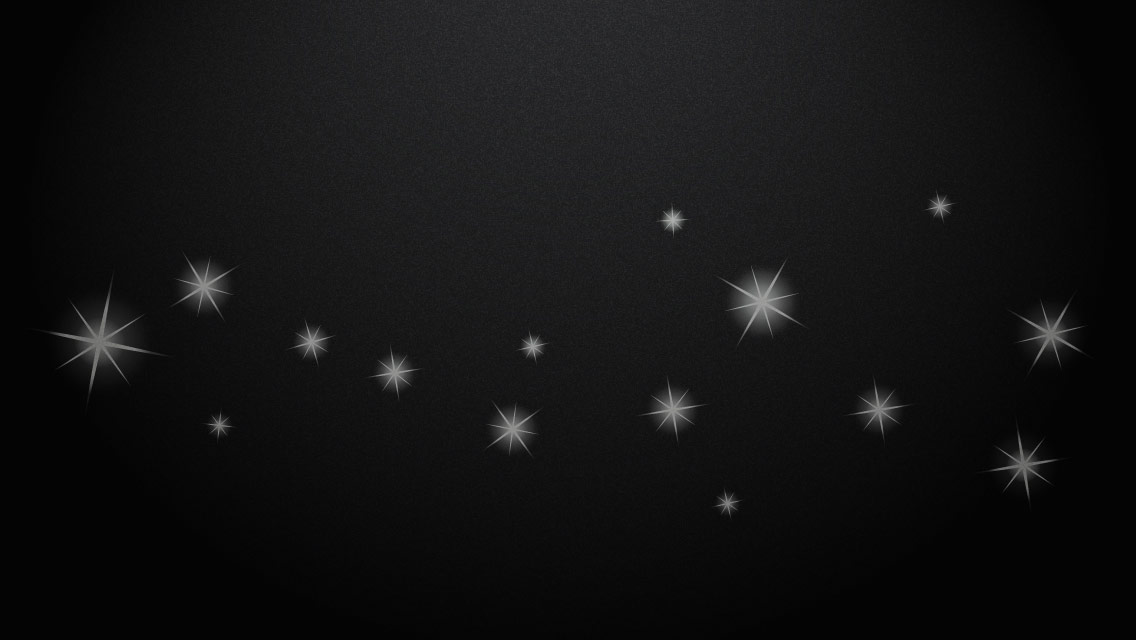
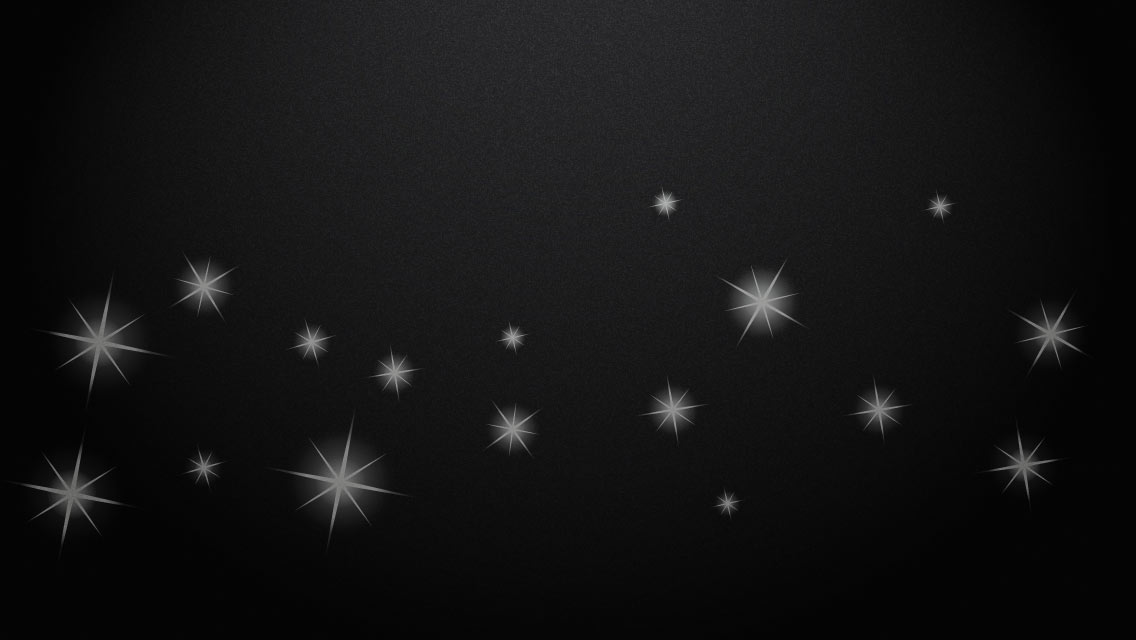
new backgrounds for designer series new/next no showsTouchOnhighlighted carousel spacing etc....

diff --git a/DP/Controllers/DPCarouselViewController.m b/DP/Controllers/DPCarouselViewController.m
@@ -141,6 +141,7 @@
 - (void)viewWillLayoutSubviews {
     [super viewWillLayoutSubviews];
     //[self loadOpenFlow];
+    [self clearCarousel];
     [self loadCarousel];
 }
 - (void)didReceiveMemoryWarning {
@@ -155,7 +156,7 @@
     _currentIndex = indx;
     if (self.currentIndex != -1 && self.icarousel) {
         //[self.icarousel setCurrentItemIndex:self.currentIndex];
-        [self.icarousel scrollToItemAtIndex:self.currentIndex animated:YES];
+        [self.icarousel scrollToItemAtIndex:indx animated:NO];
     }
 }
 
@@ -185,6 +186,7 @@
 }
 
 - (void) doLocalize {
+    [self reloadData];
 }
 
 
@@ -255,25 +257,27 @@
 
 -(void) setupLabels {
     [self clearLabels];
-    CGSize favSize = CGSizeMake(IS_IPAD ? IPADS_FAV_SIZE_WIDTH : IPHONES_FAV_SIZE_WIDTH,
+//    if (showSocials)
+    CGSize favSize = CGSizeMake(!showSocials ? 0.0f : (IS_IPAD ? IPADS_FAV_SIZE_WIDTH : IPHONES_FAV_SIZE_WIDTH),
                                 IS_IPAD ? IPADS_FAV_SIZE_HEIGHT : IPHONES_FAV_SIZE_HEIGHT);
     CGRect frmbtn = CGRectMake(0, 0, favSize.width, favSize.height);
-    
-    self.btnAdd2Favs = [UIButton buttonWithType:UIButtonTypeCustom];
-    self.btnAdd2Favs.frame = frmbtn;
-    self.btnAdd2Favs.contentMode = UIViewContentModeCenter;
-    [self.btnAdd2Favs setImageEdgeInsets:UIEdgeInsetsMake(-4, 0, -4, 0)];
-    self.btnAdd2Favs.backgroundColor = [UIColor whiteColor];
-    [self.btnAdd2Favs setImage:[UIImage imageNamed:NAVBAR_FAV_IMG]
-                      forState:UIControlStateNormal];
-    [self.btnAdd2Favs setImage:[UIImage imageNamed:NAVBAR_FAV_SEL_IMG]
-                      forState:UIControlStateSelected];
-
-    [self.btnAdd2Favs addTarget:self
-                         action:@selector(addToFavs:)
-               forControlEvents:UIControlEventTouchUpInside];
-    
-    CGRect frmcntr = CGRectOffset(frmbtn, frmbtn.size.width + 2, 0);
+    CGFloat favbtnOfs = showSocials ? 2.0f : 0.0f;
+    if (showSocials) {
+        self.btnAdd2Favs = [UIButton buttonWithType:UIButtonTypeCustom];
+        self.btnAdd2Favs.frame = frmbtn;
+        self.btnAdd2Favs.contentMode = UIViewContentModeCenter;
+        [self.btnAdd2Favs setImageEdgeInsets:UIEdgeInsetsMake(-4, 0, -4, 0)];
+        self.btnAdd2Favs.backgroundColor = [UIColor whiteColor];
+        [self.btnAdd2Favs setImage:[UIImage imageNamed:NAVBAR_FAV_IMG]
+                          forState:UIControlStateNormal];
+        [self.btnAdd2Favs setImage:[UIImage imageNamed:NAVBAR_FAV_SEL_IMG]
+                          forState:UIControlStateSelected];
+        
+        [self.btnAdd2Favs addTarget:self
+                             action:@selector(addToFavs:)
+                   forControlEvents:UIControlEventTouchUpInside];
+    }
+    CGRect frmcntr = CGRectOffset(frmbtn, frmbtn.size.width + favbtnOfs, 0);
     frmcntr.size.width = 0;
     self.lblCounter = [[UILabel alloc] initWithFrame: frmcntr];
     self.lblCounter.font = [UIFont systemFontOfSize: IS_IPAD ? IPADS_FONT_SIZE : IPHONES_FONT_SIZE];
@@ -291,7 +295,9 @@
     self.lblContainer = [[UIView alloc] initWithFrame:frm];
     self.lblContainer.backgroundColor = [UIColor blackColor];
     
-    [self.lblContainer addSubview:self.btnAdd2Favs];
+    if (showSocials)
+        [self.lblContainer addSubview:self.btnAdd2Favs];
+    
     [self.lblContainer addSubview:self.lblCounter];
     [self.lblContainer addSubview:self.lblTitle];
     
@@ -359,14 +365,17 @@
     
     [self.lblCounter sizeToFit];
     
+    CGFloat counterfrmOfsX = self.btnAdd2Favs == nil ? 0.0f : self.btnAdd2Favs.frame.size.width + 2.0f;
     CGRect counterfrm = CGRectMake(0, 0,
                                    IS_IPAD ? IPADS_COUNTER_WIDTH : IPHONES_COUNTER_WIDTH,
                                    self.lblCounter.frame.size.height);
-    counterfrm = CGRectOffset(counterfrm, self.btnAdd2Favs.frame.size.width + 2, 0);
+    counterfrm = CGRectOffset(counterfrm, counterfrmOfsX, 0);
     self.lblCounter.frame = counterfrm;
 
-    CGRect r = self.btnAdd2Favs.frame;
-    self.btnAdd2Favs.frame = CGRectMake(r.origin.x, r.origin.y, r.size.width, counterfrm.size.height);
+    if (self.btnAdd2Favs) {
+        CGRect r = self.btnAdd2Favs.frame;
+        self.btnAdd2Favs.frame = CGRectMake(r.origin.x, r.origin.y, r.size.width, counterfrm.size.height);
+    }
     
     self.lblTitle.frame = CGRectZero;
     if (self.icarousel.currentItemIndex >= self.datalist.count) {
@@ -389,7 +398,10 @@
         self.lblTitle.frame = titlefrm;
     }
     
-    self.lblContainer.frame = CGRectUnion(CGRectUnion(self.btnAdd2Favs.frame, counterfrm), self.lblTitle.frame);
+    if (self.btnAdd2Favs)
+        self.lblContainer.frame = CGRectUnion(CGRectUnion(self.btnAdd2Favs.frame, counterfrm), self.lblTitle.frame);
+    else
+        self.lblContainer.frame = CGRectUnion(counterfrm, self.lblTitle.frame);
 }
 //==============================================================================
 
@@ -435,7 +447,10 @@
     
     dispatch_async(dispatch_get_main_queue(), ^{
         //[self loadOpenFlow];
+        [self clearCarousel];
         [self loadCarousel];
+        [self.view setNeedsDisplay];
+        [self.view setNeedsLayout];
     });
 }
 #pragma mark END DPDataLoaderDelegate

diff --git a/DP/Classes/DPImageContentViewController.m b/DP/Classes/DPImageContentViewController.m
@@ -450,20 +450,23 @@
     [self clearLabels];
     if (!self.article) return;
     
-    CGSize favSize = CGSizeMake(IS_IPAD ? IPADS_FAV_SIZE_WIDTH : IPHONES_FAV_SIZE_WIDTH,
+    CGSize favSize = CGSizeMake(!showSocials ? 0.0f : (IS_IPAD ? IPADS_FAV_SIZE_WIDTH : IPHONES_FAV_SIZE_WIDTH),
                                 IS_IPAD ? IPADS_FAV_SIZE_HEIGHT : IPHONES_FAV_SIZE_HEIGHT);
     CGRect frmbtn = CGRectMake(0, 0, favSize.width, favSize.height);
     
-    self.btnAdd2Favs = [UIButton buttonWithType:UIButtonTypeCustom];
-    self.btnAdd2Favs.frame = frmbtn;
-    self.btnAdd2Favs.contentMode = UIViewContentModeCenter;
-    [self.btnAdd2Favs setImageEdgeInsets:UIEdgeInsetsMake(-4, 0, -4, 0)];
-    self.btnAdd2Favs.backgroundColor = [UIColor whiteColor];
-    [self.btnAdd2Favs addTarget:self
-                         action:@selector(addToFavs:)
-               forControlEvents:UIControlEventTouchUpInside];
+    if (showSocials) {
+        self.btnAdd2Favs = [UIButton buttonWithType:UIButtonTypeCustom];
+        self.btnAdd2Favs.frame = frmbtn;
+        self.btnAdd2Favs.contentMode = UIViewContentModeCenter;
+        [self.btnAdd2Favs setImageEdgeInsets:UIEdgeInsetsMake(-4, 0, -4, 0)];
+        self.btnAdd2Favs.backgroundColor = [UIColor whiteColor];
+        [self.btnAdd2Favs addTarget:self
+                             action:@selector(addToFavs:)
+                   forControlEvents:UIControlEventTouchUpInside];
+    }
     
-    CGRect frmcntr = CGRectOffset(frmbtn, frmbtn.size.width + 2, 0);
+    CGFloat frmcntrOfs = showSocials ? frmbtn.size.width + 2.0f : 0.0f;
+    CGRect frmcntr = CGRectOffset(frmbtn, frmcntrOfs, 0);
     self.lblCounter = [[UILabel alloc] initWithFrame: frmcntr];
     self.lblCounter.font = [UIFont systemFontOfSize: IS_IPAD ? IPADS_FONT_SIZE : IPHONES_FONT_SIZE];
     self.lblCounter.backgroundColor = [UIColor whiteColor];
@@ -479,7 +482,8 @@
     self.lblContainer = [[UIView alloc] initWithFrame:frm];
     self.lblContainer.backgroundColor = [UIColor blackColor];
     
-    [self.lblContainer addSubview:self.btnAdd2Favs];
+    if (showSocials)
+        [self.lblContainer addSubview:self.btnAdd2Favs];
     [self.lblContainer addSubview:self.lblCounter];
     [self.lblContainer addSubview:self.lblTitle];
     
@@ -494,11 +498,13 @@
 }
 
 - (void) fixFavsButton {
-    [super fixFavsButton];
-    
-    NSString *favImgName = [self isInFavorites] ? NAVBAR_FAV_SEL_IMG : NAVBAR_FAV_IMG;
-    [self.btnAdd2Favs setImage:[UIImage imageNamed:favImgName]
-                      forState:UIControlStateNormal];
+    if (self.btnAdd2Favs) {
+        [super fixFavsButton];
+        
+        NSString *favImgName = [self isInFavorites] ? NAVBAR_FAV_SEL_IMG : NAVBAR_FAV_IMG;
+        [self.btnAdd2Favs setImage:[UIImage imageNamed:favImgName]
+                          forState:UIControlStateNormal];
+    }
 }
 
 - (int) currentIndex {
@@ -528,7 +534,8 @@
     CGRect counterfrm = CGRectMake(0, 0,
                                    IS_IPAD ? IPADS_COUNTER_WIDTH : IPHONES_COUNTER_WIDTH,
                                    self.lblCounter.frame.size.height);
-    counterfrm = CGRectOffset(counterfrm, self.btnAdd2Favs.frame.size.width + 2, 0);
+    CGFloat cntrfrmOfs = showSocials ? self.btnAdd2Favs.frame.size.width + 2.0f : 0.0f;
+    counterfrm = CGRectOffset(counterfrm, cntrfrmOfs, 0);
     self.lblCounter.frame = counterfrm;
     
     if (currIndex == 0) {
@@ -543,12 +550,18 @@
                                  self.lblTitle.frame.size.width + 6,
                                  self.lblTitle.frame.size.height);
     
-    CGRect r = self.btnAdd2Favs.frame;
-    self.btnAdd2Favs.frame = CGRectMake(r.origin.x, r.origin.y, r.size.width, counterfrm.size.height);
+    if (showSocials) {
+        CGRect r = self.btnAdd2Favs.frame;
+        self.btnAdd2Favs.frame = CGRectMake(r.origin.x, r.origin.y, r.size.width, counterfrm.size.height);
+    }
     
     titlefrm = CGRectOffset(titlefrm, counterfrm.origin.x + counterfrm.size.width + 2, 0);
     self.lblTitle.frame = titlefrm;
-    self.lblContainer.frame = CGRectUnion(self.btnAdd2Favs.frame, titlefrm);
+    
+    if (showSocials)
+        self.lblContainer.frame = CGRectUnion(self.btnAdd2Favs.frame, titlefrm);
+    else
+        self.lblContainer.frame = CGRectUnion(counterfrm, titlefrm);
 }
 
 @end

diff --git a/DP/ControllersPaid/DPNewNextViewController.m b/DP/ControllersPaid/DPNewNextViewController.m
@@ -205,7 +205,7 @@
 
 - (UIButton *) createViewWithFrame:(CGRect)frame {
     DPButton *result = [DPButton buttonWithType:UIButtonTypeCustom];
-    result.showsTouchWhenHighlighted = YES;
+    result.showsTouchWhenHighlighted = NO;
     result.extraLayerColor = [UIColor colorWithWhite:0.0f alpha:0.25f];
     result.showExtraLayerOnHighlight = YES;
     result.frame = frame;

diff --git a/DP/ControllersPaid/DPCTGViewController.m b/DP/ControllersPaid/DPCTGViewController.m
@@ -386,7 +386,7 @@
 //    return NO;
 //}
 - (BOOL) showNavBarSocial {
-    return YES;
+    return self.categoryId != CTGID_INFO;
 }
 - (BOOL) showNavBarInfo {
     return self.categoryId != CTGID_INFO ; //[DPAppHelper sharedInstance].isPurchased;

diff --git a/DP/Classes/DPHtmlContentViewController.m b/DP/Classes/DPHtmlContentViewController.m
@@ -271,7 +271,7 @@
     return NO;
 }
 - (BOOL) showNavBarAddToFav {
-    return self.categoryID != 0;
+    return self.categoryID != 0 && self.categoryID != CTGID_INFO;
 }
 - (BOOL) showNavBarSocial {
     return NO;

diff --git a/DP/Controllers/DPRootViewController.m b/DP/Controllers/DPRootViewController.m
@@ -100,7 +100,7 @@
     
 //    if (self.bottomView.subviews.count > 0) {
         [self loadDetailView:YES];
-        [self loadOpenFlow:YES];
+//        [self loadOpenFlow:YES];
 //    }
 }
 

diff --git a/DP/ControllersPaid/DPArticlesViewController.m b/DP/ControllersPaid/DPArticlesViewController.m
@@ -63,7 +63,7 @@
 - (void) doLocalize {
     [super doLocalize];
 
-    [self loadOpenFlow:YES];
+//    [self loadOpenFlow:YES];
 }
 
 - (void) doLayoutSubViews:(BOOL)fixtop {
